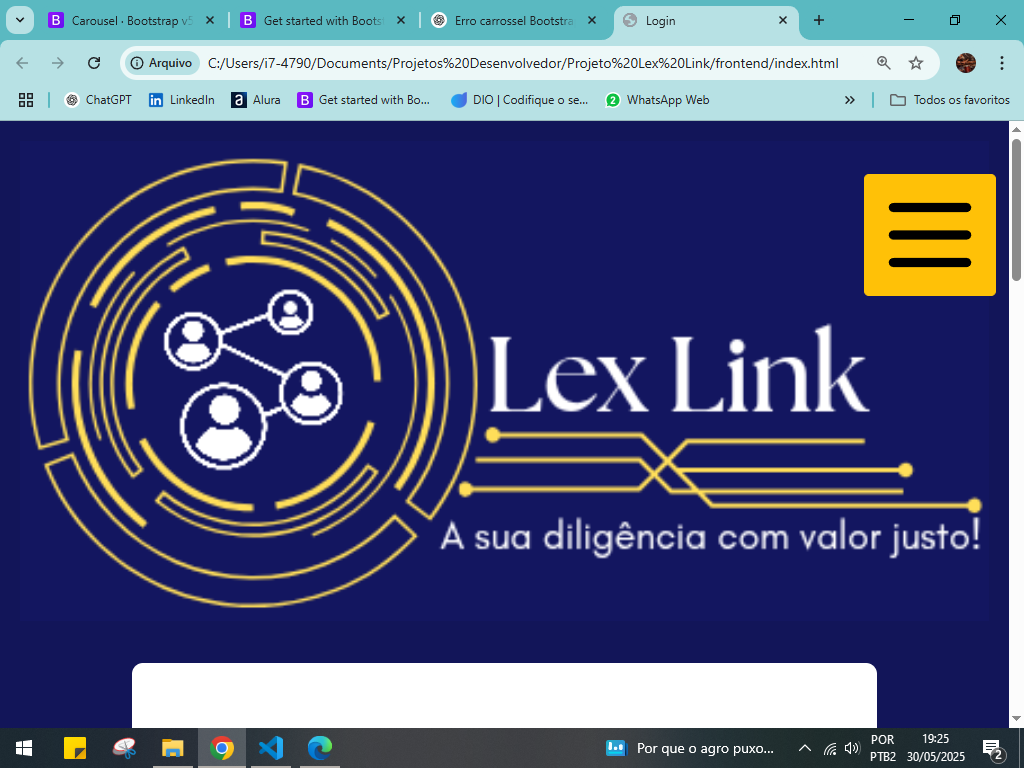
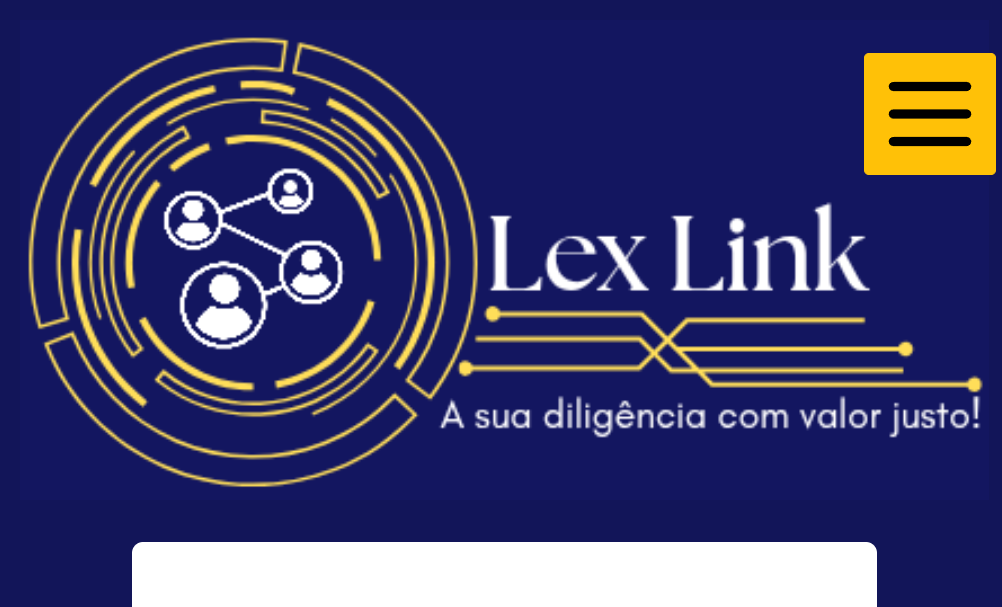
feat: polimento de imagens

diff --git a/src/pages/Projetos.jsx b/src/pages/Projetos.jsx
@@ -45,7 +45,7 @@ export default function Projetos() {
                         description:
                             "Plataforma para psicólogos com prontuário digital, controle de sessões e portal do paciente. Estrutura pensada para multi-tenant e expansão para outros nichos.",
                         techs: {
-                            Frontend: ["React", "Vite", "Tailwind"],
+                            Frontend: ["React", "Vite", "JavaScript", "Tailwind"],
                             Backend: ["Node", "Express",],
                             BancoDeDados: ["Firebase"]
                         }
@@ -63,7 +63,7 @@ export default function Projetos() {
                         title: "SOS Advocacia",
                         description: "Plataforma para escritórios de advocacia. Com ferramentas que possibilitam. Plataforma para psicólogos com prontuário digital, controle de sessões e portal do paciente. Estrutura pensada para multi-tenant e expansão para outros nichos.",
                         techs: {
-                            Frontend: ["React", "Vite", "Tailwind"],
+                            Frontend: ["React", "Vite", "JavaScript", "Tailwind"],
                             Backend: ["Node", "Express",],
                             BancoDeDados: ["Firebase"]
                         }
@@ -82,7 +82,42 @@ export default function Projetos() {
                         description:
                             "Página institucional moderna com foco em conversão, responsividade e SEO. Estrutura leve e otimizada para performance.",
                         techs: {
-                            Frontend: ["HTML", "CSS", "JavaScript", "Tailwind"]
+                            Frontend: ["React", "JavaScript", "Tailwind"]
+                        }
+                    },
+                    {
+                        img: "/projetos/sos-musico/capa-musico.png",
+                        images: [
+                            "/projetos/sos-advocacia/modal-dashboard.png",
+                            "/projetos/sos-advocacia/modal-pacientes.png",
+                            "/projetos/sos-advocacia/modal-sessoes.png",
+                            "/projetos/sos-advocacia/modal-agenda.png",
+                            "/projetos/sos-advocacia/modal-documentos.png",
+                            "/projetos/sos-advocacia/modal-mural.png",
+                        ],
+                        title: "SOS Músico",
+                        description: "Plataforma para escritórios de advocacia. Com ferramentas que possibilitam. Plataforma para psicólogos com prontuário digital, controle de sessões e portal do paciente. Estrutura pensada para multi-tenant e expansão para outros nichos.",
+                        techs: {
+                            Frontend: ["React", "Vite", "JavaScript", "Tailwind"],
+                            Backend: ["Node", "Express",],
+                            BancoDeDados: ["Supabase"]
+                        }
+                    },
+                    {
+                        img: "/projetos/numero-secreto.png",
+                        images: [
+                            "/projetos/institucionais/modal-1.png",
+                            "/projetos/institucionais/modal-2.png",
+                            "/projetos/saas-juridico-modal2.PNG",
+                            "/projetos/saas-juridico-modal3.PNG",
+                            "/projetos/saas-juridico-modal4.PNG",
+                            "/projetos/saas-juridico-modal5.PNG"
+                        ],
+                        title: "Projetos de estudante",
+                        description:
+                            "Página institucional moderna com foco em conversão, responsividade e SEO. Estrutura leve e otimizada para performance.",
+                        techs: {
+                            Frontend: ["React", "JavaScript", "Tailwind"]
                         }
                     },
 
@@ -160,15 +195,15 @@ export default function Projetos() {
 
                                     <div key={category}>
 
-                                        <span className="text-xs">
+                                        <span className="text-xs md:text-xl">
                                             {category}:
                                         </span>
 
-                                        <div className="flex flex-wrap gap-2 mt-1 flex justify-center">
+                                        <div className="flex flex-wrap gap-2 mt-1 justify-center">
                                             {techs.map((tech, i) => (
                                                 <span
                                                     key={i}
-                                                    className={`px-3 py-1 text-xs rounded-full ${techColors[category] || "bg-gray-500/20"}`}
+                                                    className={`px-3 py-1 text-xs md:text-xl rounded-full ${techColors[category] || "bg-gray-500/20"}`}
                                                 >
                                                     {tech}
                                                 </span>

diff --git a/src/componentes/Slide.jsx b/src/componentes/Slide.jsx
@@ -2,15 +2,15 @@ import { useState, useEffect } from "react";
 
 export default function Slide() {
     const slides = [
-        "/projetos/teste-pc.png",
-        "/projetos/teste-pc.png",
-        "/projetos/teste-pc.png",
+        "/projetos/sos-saude/capa-saude.png",
+        "/projetos/saas-juridico.PNG",
+        "/projetos/sos-musico/capa-musico.png",
     ];
 
     const slidesMobile = [
-        "/projetos/teste-quadrada.png",
-        "/projetos/teste-quadrada.png",
-        "/projetos/teste-quadrada.png",
+        "/projetos/sos-saude/modal-dashboard.png",
+        "/projetos/sos-advocacia/modal-dashboard.png",
+        "/projetos/institucionais/modal-1.png",
     ];
 
     const [current, setCurrent] = useState(0);

diff --git a/src/componentes/CardServicos.jsx b/src/componentes/CardServicos.jsx
@@ -1,4 +1,4 @@
-export default function CardServicos({ icon, title, description }) {
+export default function CardServicos({ icon, title }) {
     return (
         <div className="flex flex-col items-center justify-center max-w-sm rounded-xl shadow-lg p-4 text-center border-3">
 
@@ -11,11 +11,6 @@ export default function CardServicos({ icon, title, description }) {
             <h2 className="font-semibold text-lg mb-2">
                 {title}
             </h2>
-
-            {/* DESCRIÇÃO */}
-            <p className="text-sm">
-                {description}
-            </p>
 
         </div>
     );

diff --git a/src/componentes/Navbar.jsx b/src/componentes/Navbar.jsx
@@ -20,7 +20,7 @@ export default function Navbar() {
     }, [dark]);
 
     return (
-        <nav className="flex justify-between gap-2 p-6 md:p-10 bg-sky-800 dark:bg-white dark:rounded-b-2xl">
+        <nav className="flex justify-between gap-4 p-6 md:p-10 bg-sky-800 dark:bg-white dark:rounded-b-2xl">
             <div className="flex flex-col md:flex-row items-center justify-center leading-tight"
                 onClick={() => navigate('/')}>
                 <p className="titulo-nome text-3xl md:text-5xl text-center font-medium text-white dark:text-black tracking-tight">Antonni Carlos de Freitas Moreira</p>

diff --git a/src/pages/Inicio.jsx b/src/pages/Inicio.jsx
@@ -49,7 +49,7 @@ export default function Inicio() {
                 </section>
             </div>
 
-            <div className="p-5 py-10 md:py-20 flex justify-center">
+            <div className="py-5 md:py-20 flex justify-center">
                 <div className="max-w-3xl text-center">
 
                     <h2 className="text-xl md:text-2xl italic">